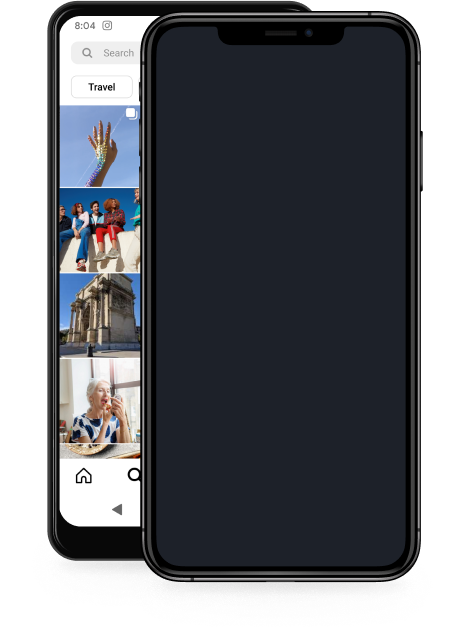
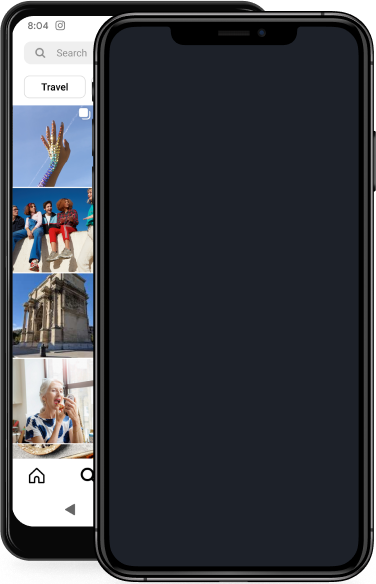
Layout praticamente pronto, com oas alinhamentos, posicionamentos, tipografia e cores OK. 😍

diff --git a/index.html b/index.html
@@ -1,11 +1,12 @@
 <!DOCTYPE html>
 <html lang="pt-BR">
+
 <head>
     <meta charset="UTF-8">
     <meta http-equiv="X-UA-Compatible" content="IE=edge">
     <meta name="viewport" content="width=device-width, initial-scale=1.0">
     <title>Instagram</title>
-    
+
     <link rel="preconnect" href="https://fonts.googleapis.com">
     <link rel="preconnect" href="https://fonts.gstatic.com" crossorigin>
     <link href="https://fonts.googleapis.com/css2?family=Roboto&display=swap" rel="stylesheet">
@@ -13,42 +14,48 @@
 
     <link rel="stylesheet" href="css/styles.css">
 </head>
+
 <body>
-    <main>
-        <div class="instagra-wrapper">
-            <div class="instagram-phone"></div>
-            <div class="instagram-login">
-                <div class="box-login">
+    <main class="instagram-wrapper column">
+        <div class="instagram-phone"></div>
+        <div class="instagram-login column">
+            <div class="box column">
+                <div class="insta-logo">
                     <img src="images/instagram-logo.png" alt="Instagram Logo">
-                    <form action="#">
-                        <input type="text" name="username" id="username" required>
-                        <input type="password" name="password" id="password" required>
-                        <button type="submit" name="send" id="send">Enviar</button>
-                        <div class="separator-or">
-                            <div class="line"></div>
-                            <div class="or">OU</div>
-                            <div class="line"></div>
-                        </div>
-                        <div class="facebook-login">
-                            <button>
-                                <span><i class="ri-facebook-box-fill"></i></span>
-                                <span>Entrar com o Facebook</span>
-                            </button>
-                        </div>
-                    </form>
                 </div>
+                <form action="#">
+                    <input type="text" name="username" id="username" placeholder="Telefone, nome de usuário ou email"
+                        required>
+                    <input type="password" name="password" id="password" placeholder="Senha" required>
+                    <button class="button-login" type="submit" name="login" id="login">Entrar</button>
+                </form>
+                <div class="separator-or row">
+                    <div class="line"></div>
+                    <div class="or">OU</div>
+                    <div class="line"></div>
+                </div>
+                <div class="facebook-login column">
+                    <button class="button-facebook">
+                        <img src="images/facebook-icon.svg" alt="Facebook Logo">
+                        <span>Entrar com o Facebook</span>
+                    </button>
+                </div>
+                <a href="#" class="forgot-password">Esqueceu a senha?</a>
+            </div>
+            <div class="box">
                 <div class="sign-up">
                     <p>Não tem uma conta? <a href="#">Cadastre-se</a></p>
                 </div>
-                <div class="get-app">
-                    <p>Obtenha o aplicativo</p>
-                    <div class="stores">
-                        <a href="https://itunes.apple.com/app/instagram/id389801252?pt=428156&ct=igweb.loginPage.badge&mt=8&vt=lo"><img src="images/app-store.png" alt="Baixar na App Store"></a>
-                        <a href="https://play.google.com/store/apps/details?id=com.instagram.android&referrer=utm_source%3Dinstagramweb%26utm_campaign%3DloginPage%26ig_mid%3D663D1752-5206-4868-AA45-2CBA4E73F0BB%26utm_content%3Dlo%26utm_medium%3Dbadge"><img src="images/google-play.png" alt="Baixar no Google Play"></a>
-                    </div>
+            </div>
+            <div class="get-app">
+                <p>Obtenha o aplicativo</p>
+                <div class="stores">
+                    <a href="https://itunes.apple.com/app/instagram/id389801252"><img src="images/app-store.png" alt="Baixar na App Store"></a>
+                    <a href="https://play.google.com/store/apps/details?id=com.instagram.android"><img src="images/google-play.png" alt="Baixar no Google Play"></a>
                 </div>
             </div>
         </div>
     </main>
 </body>
+
 </html>

diff --git a/css/styles.css b/css/styles.css
@@ -10,41 +10,206 @@
 
 img {
     display: block;
-    width: 100%;
+    max-width: 100%;
 }
 
 body {
     background-color: #FAFAFA;
     width: 100%;
-    min-height: 100vh;
+}
+
+.row {
+    flex-direction: row;
+}
+
+.column {
+    flex-direction: column;
 }
 
 main {
     width: 100%;
+    display: flex;
+    min-height: 100vh;
 }
 
 
-.instagra-wrapper {
+.instagram-wrapper {
     display: flex;
-    width: 935px;
-    margin: 32px auto 0 auto;
+    width: 760px;
+    margin: 0 auto;
     flex-direction: row;
     justify-content: center;
     padding-bottom: 32px;
 }
 
 .instagram-phone {
+    width: calc(50% - 15px);
+    margin-right: 15px;
+    margin-bottom: 12px;
     align-self: center;
     background-image: url(../images/bg-phone.png);
-    background-position: -46px 0;
-    background-size: 468.32px 634.15px;
-    flex-basis: 380.32px;
-    height: 581.15px;
-    margin-bottom: 12px;
-    margin-right: 32px;
-    width: 380px;
+    background-size: contain;
+    background-repeat: no-repeat;
+    height: 581px;
+
 }
 
 .instagram-login {
-    width: 380px;
+    max-width: calc(50% - 15px);
+    margin-left: 15px;
+    display: flex;
+    margin-bottom: 12px;
+    align-self: center;
+}
+
+.box {
+    width: 100%;
+    border: 1px solid #ccc;
+    background-color: #fff;
+    border-radius: 1px;
+    margin-bottom: 12px;
+    padding: 10px 0;
+    display: flex;
+    align-items: center;
+    justify-content: center;
+}
+
+.insta-logo {
+    flex: 1;
+    margin: 20px 30px;
+}
+
+form {
+    
+    display: flex;
+    align-items: center;
+    justify-content: space-around;
+    flex-direction: column;
+    margin-top: 20px;
+    width: 100%;
+}
+
+input, button {
+    border-radius: 3px;
+    width: 80%;
+    margin: 0 20px 10px 20px;
+}
+
+input {
+    border: 1px solid #ccc;
+    padding: 8px;
+    outline: none;
+}
+
+.button-login {
+    background-color: rgba(0, 149, 246, .3);
+    border: 0;
+    border-radius: 3px;
+    padding: 5px;
+    color: #fff;
+    font-weight: 700;
+}
+
+.button-login {
+    background-color: rgba(0, 149, 246, .3);
+    border: 0;
+    padding: 5px;
+    color: #fff;
+    font-weight: 700;
+}
+
+.separator-or {
+    display: flex;
+    flex-grow: 1;
+    padding: 0;
+    position: relative;
+    margin: 10px 40px 18px;
+    align-items: stretch;
+}
+.line {
+    background-color: #ccc;
+    flex-shrink: 1;
+    flex-grow: 1;
+    height: 1px;
+    position: relative;
+    top: 0.45em;
+    width: 110px;
+}
+
+.or {
+    flex-shrink: 0;
+    flex-grow: 0;
+    font-size: 13px;
+    font-weight: 400;
+    line-height: 15px;
+    margin: 0 18px;
+    
+}
+
+.facebook-login {
+    display: flex;
+    align-items: center;
+    justify-content: center; 
+    width: 100%;   
+}
+
+.button-facebook {
+    border: 0;
+    background: none;
+    display: flex;
+    flex-direction: row;
+    align-items: center;
+    color: #00376b;
+    justify-content: center;
+    cursor: pointer;
+}
+
+.button-facebook img {
+    margin-right: 4px;
+}
+
+.forgot-password {
+    font-size: 12px;
+    color: #00376b;
+    margin: 10px 0;
+}
+
+.sign-up {
+    display: flex;
+    align-items: center;
+    justify-content: center;
+    padding: 10px 0;
+    text-align: center;
+}
+
+.sign-up p {
+    line-height: 18px;
+    margin: 16px;
+    text-align: center;
+}
+
+.sign-up a {
+    color: #0095f6;
+}
+
+
+.get-app p {
+    margin: 0 20px;
+    text-align: center;
+    line-height: 18px;
+}
+
+.stores {
+    max-width: 350px;
+    display: flex;
+    justify-content: space-around;
+    margin: 20px 30px;
+}
+
+.stores img {
+    height: 40px;
+}
+
+.stores a:first-child {
+    margin-right: 8px;
 }
